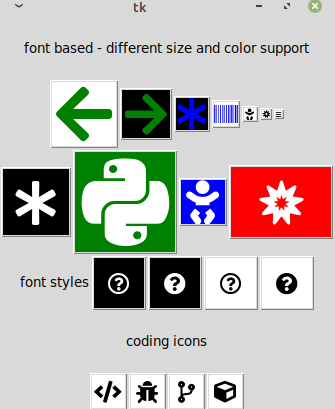
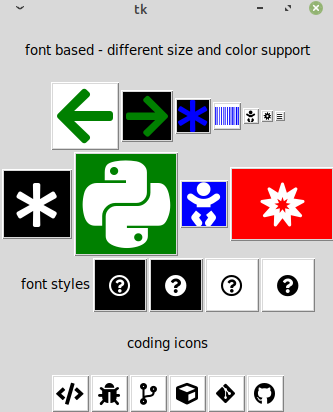
update

diff --git a/run_sample.py b/run_sample.py
@@ -176,6 +176,20 @@ im_code_cmp = get_font_icon(
 )
 tk.Button(frame6, justify=tk.LEFT, padx=10, image=im_code_cmp).pack(side="left")
 
+im_git_alt = get_font_icon(
+    "git-alt",
+    height=22,
+    image_size=(33, 33),
+)
+tk.Button(frame6, justify=tk.LEFT, padx=10, image=im_git_alt).pack(side="left")
+
+im_git_hub = get_font_icon(
+    "github",
+    height=22,
+    image_size=(33, 33),
+)
+tk.Button(frame6, justify=tk.LEFT, padx=10, image=im_git_hub).pack(side="left")
+
 frame6.pack()
 
 
